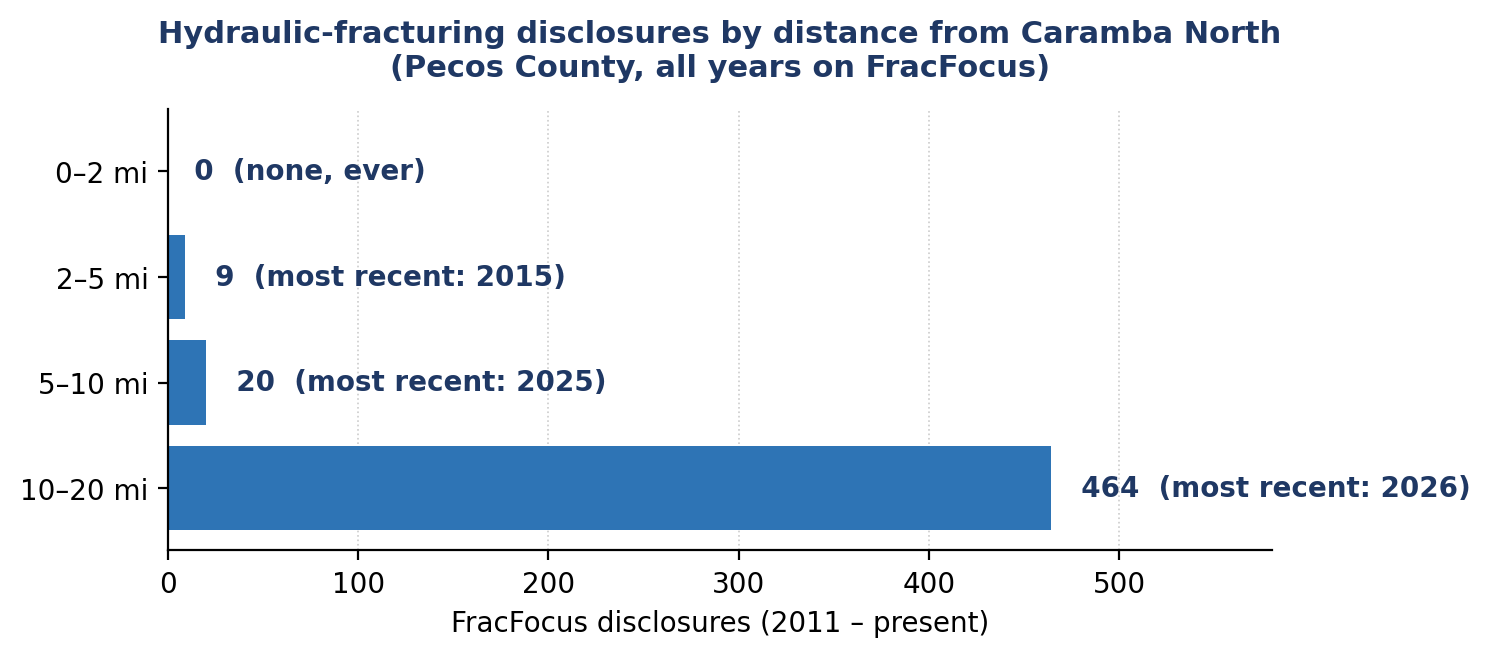
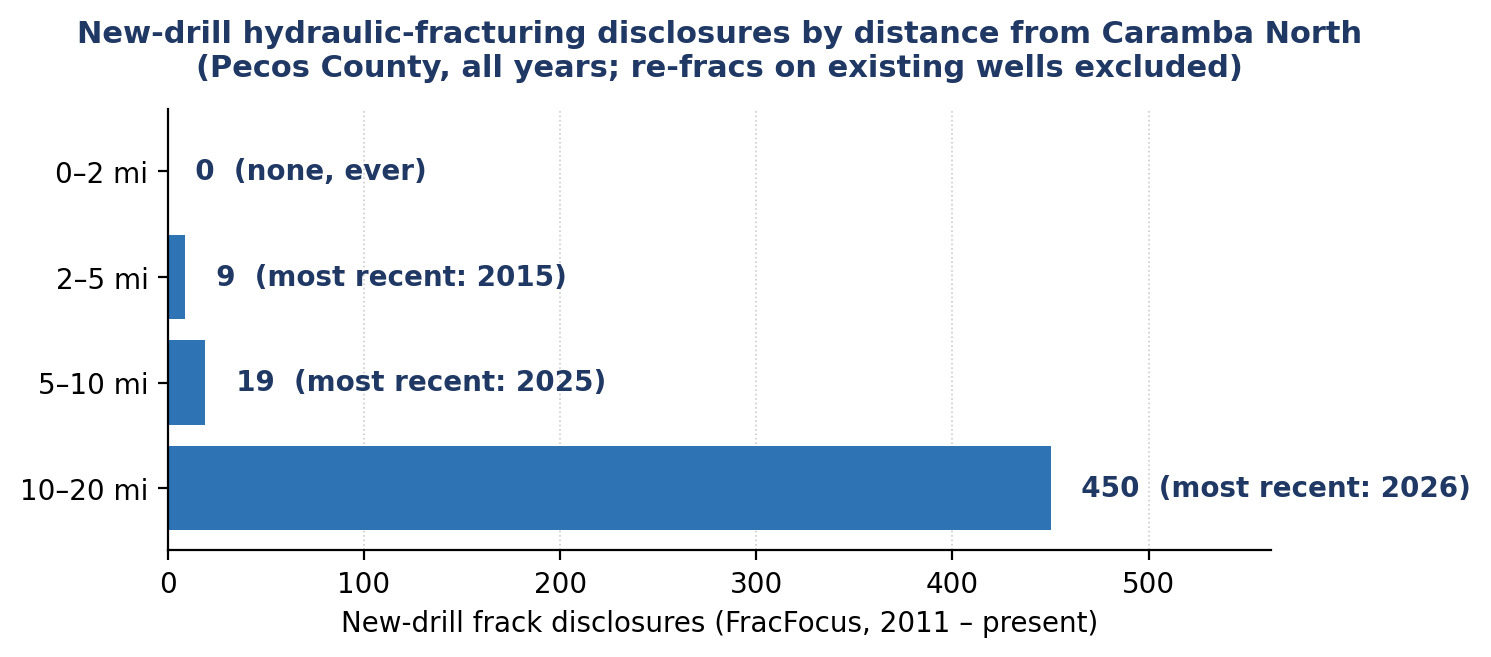
report v25: FracFocus restricted to NEW-DRILL fracks (re-fracs on existing wells excluded)
Per advisor: confirm the FracFocus figures only count fracks at the
original completion of newly drilled wells (not re-fracs on existing
wells, and not permits that were never drilled).

Cross-referenced every Pecos FracFocus disclosure (949 total) against
the RRC dbf900 wellbore record by API number. Each disclosure
classified as either:
  - new-drill frack: the FracFocus job date is within -1 to +2 years
    of the wellbore's original spud OR completion year (i.e., the
    frack was performed at original completion of a newly drilled
    wellbore); OR
  - re-frac: the FracFocus job date is >2 years after the wellbore's
    original spud or original completion (a stimulation event on an
    already-existing well).

(FracFocus does not contain permits-not-drilled by construction --
FracFocus only accepts disclosures filed POST-frac on a real well.)

County-wide classification: 949 -> 903 new-drill / 28 re-frac /
18 unmatched (no wellbore record found).

New ring counts (NEW-DRILL FRACKS ONLY, around Caramba):
  0 – 2  mi:    0   (unchanged -- still none, ever)
  2 – 5  mi:    9   (unchanged -- all 9 within 5 mi were new-drill;
                    most recent 2015 Flamingo; 8 are Apache 2012)
  5 – 10 mi:   19   (was 20; 1 re-frac excluded -- Caird Pecos J Fee
                    3H at 8.98 mi, originally spud 1985, re-fracked
                    2015 / 30y after spud)
  10 – 20 mi:  450  (was 464; 14 re-fracs/unmatched excluded)
[…]

diff --git a/outputs/reports/fracfocus_new_drill_only.py b/outputs/reports/fracfocus_new_drill_only.py
@@ -1,0 +1,169 @@
+#!/usr/bin/env python3
+"""Cross-reference each FracFocus disclosure within 20 mi of Caramba against
+the dbf900 wellbore record (by API) to filter to NEW-DRILL fracks only.
+
+Classification per disclosure:
+  - "new-drill frack" : the FracFocus job is the original completion of a
+    genuine-new-drill wellbore (i.e., the wellbore record has
+    completion_year >= spud_year, AND the FracFocus job date is within
+    ~24 months of the wellbore's spud_date).
+  - "re-frac" : everything else (re-stamp records; or FracFocus date well
+    after original completion -> re-frac on existing well).
+
+This is the conservative interpretation: it ONLY counts fracks that
+correspond to drilling a new wellbore. Re-fracs of existing wells are
+excluded, per advisor.
+"""
+import csv, json, math, statistics
+from collections import Counter, defaultdict
+from datetime import datetime, timedelta
+from pathlib import Path
+
+REPO = Path("/home/andreahimmel/lrp-tx-gis")
+FF   = REPO / "data" / "fracfocus" / "DisclosureList_1.csv"
+WB   = REPO / "data" / "wells_permian6.csv"
+
+# Caramba centroid
+gj = json.load(open(REPO / "combined_geoms.geojson", encoding="utf-8"))
+feats = gj.get("features", gj if isinstance(gj, list) else [])
+caramba = next((f for f in feats if "caramba" in json.dumps(f.get("properties") or {}).lower()), None)
+g = caramba["geometry"]
+car_rings = [g["coordinates"][0]] if g["type"] == "Polygon" else [p[0] for p in g["coordinates"]]
+pts = [pt for r in car_rings for pt in r]
+CX = sum(p[0] for p in pts) / len(pts); CY = sum(p[1] for p in pts) / len(pts)
+
+
+def miles(lon, lat):
+    dlat = (lat - CY) * 69.0
+    dlon = (lon - CX) * 69.0 * math.cos(math.radians((lat + CY) / 2))
+    return math.hypot(dlat, dlon)
+
+
+def f(s):
+    try: return float(s) if s not in (None, "") else None
+    except: return None
+
+
+def parse_int(s):
+    try: return int(float(s)) if s not in (None, "") else None
+    except: return None
+
+
+def parse_date(s):
+    if not s: return None
+    for fmt in ("%m/%d/%Y %I:%M:%S %p", "%m/%d/%Y", "%Y-%m-%d %H:%M:%S", "%Y-%m-%d"):
+        try: return datetime.strptime(s.strip(), fmt)
+        except: pass
+    return None
+
+
+def api8(s):
+    """Normalize an API number to 'state(2)+county(3)+unique(5)' = 10 digits."""
+    digits = "".join(c for c in (s or "") if c.isdigit())
+    return digits[:10] if len(digits) >= 10 else digits
+
+
+# --- Index wellbore record by 10-digit API ---
+wb_idx = {}  # api10 -> dict(spud_y, comp_y, td, plug)
+with open(WB, encoding="utf-8") as fh:
+    rd = csv.DictReader(fh)
+    for r in rd:
+        a = api8(r.get("api_no"))
+        if not a: continue
+        wb_idx[a] = dict(
+            spud_y=parse_int(r.get("spud_year")),
+            comp_y=parse_int(r.get("completion_year")),
+            spud_d=parse_date(r.get("spud_date") or ""),
+            comp_d=parse_date(r.get("completion_date") or ""),
+            td=f(r.get("total_depth")),
+            plug=(r.get("plug_flag") or "").strip().upper(),
+        )
+
+# --- Read FracFocus disclosures in Pecos ---
+disc = []
+with open(FF, encoding="utf-8", errors="replace") as fh:
+    rd = csv.DictReader(fh)
+    for r in rd:
+        st = (r.get("StateName") or "").strip().lower()
+        cnty = (r.get("CountyName") or "").strip().lower()
+        api = (r.get("APINumber") or "").strip()
+        a10 = api8(api)
+        if st != "texas" or cnty != "pecos":
+            if not (a10 and a10[2:5] == "371"):
+                continue
+        lat = f(r.get("Latitude")); lon = f(r.get("Longitude"))
+        if lat is None or lon is None: continue
+        dt = parse_date(r.get("JobStartDate") or "") or parse_date(r.get("JobEndDate") or "")
+        disc.append(dict(
+            api=a10, op=r.get("OperatorName"), well=r.get("WellName"),
+            lat=lat, lon=lon, mi=miles(lon, lat),
+            tvd=f(r.get("TVD")), dt=dt, year=(dt.year if dt else None),
+        ))
+
+# --- Classify each disclosure ---
+NEW = "new-drill"
+REFRAC = "re-frac"
+UNMATCHED = "unmatched"
+
+def classify(d):
+    """Match the FracFocus job date against EITHER the wellbore spud date OR
+    the wellbore completion date. The frack is a "new-drill frack" iff it falls
+    near the original spud/completion of the wellbore (within -1 to +2 years).
+    A re-stamped wellbore can still have its ORIGINAL frack appear at the
+    original completion_year (which is the earlier of spud/completion in
+    re-stamp records) -- those are new-drill fracks, not re-fracs."""
+    wb = wb_idx.get(d["api"])
+    if wb is None:
+        return UNMATCHED, "wellbore not in dbf900"
+    sy, cy = wb["spud_y"], wb["comp_y"]
+    if d["year"] is None:
+        return UNMATCHED, "no FracFocus date"
+    # Match against completion_year (original frack at original completion).
+    if cy is not None:
+        delta_c = d["year"] - cy
+        if -1 <= delta_c <= 2:
+            return NEW, f"frack at original completion (completion {cy}, frack {d['year']})"
+    # Match against spud_year (covers genuine-new-drill records where spud == completion).
+    if sy is not None:
+        delta_s = d["year"] - sy
+        if -1 <= delta_s <= 2:
+            return NEW, f"frack near spud (spud {sy}, frack {d['year']})"
+        if delta_s > 2:
+            return REFRAC, f"re-frac ({delta_s}y after spud {sy}, frack {d['year']})"
+    if cy is not None and d["year"] > cy + 2:
+        return REFRAC, f"re-frac ({d['year']-cy}y after original completion {cy})"
+    if cy is not None and d["year"] < cy - 1:
+        return REFRAC, f"frack before completion -- data error or duplicate ({d['year']} vs completion {cy})"
+    return UNMATCHED, "ambiguous"
+
+for d in disc:
+    d["cls"], d["why"] = classify(d)
+
+# --- Report ring counts by classification ---
+RINGS = [(0, 2), (2, 5), (5, 10), (10, 20)]
+print(f"=== FRACFOCUS DISCLOSURES IN PECOS, BY RING + CLASSIFICATION ===")
+print(f"  Total disclosures pulled:         {len(disc):,}")
+print(f"  Classification overall: ", Counter(d['cls'] for d in disc))
+print()
+for lo, hi in RINGS:
+    band = [d for d in disc if lo < d["mi"] <= hi if hi != 20 or d["mi"] <= 20]
+    # ring 0-2 is inclusive at 0:
+    if lo == 0:
+        band = [d for d in disc if d["mi"] <= hi]
+    else:
+        band = [d for d in disc if lo < d["mi"] <= hi]
+    nd = [d for d in band if d["cls"] == NEW]
+    rf = [d for d in band if d["cls"] == REFRAC]
+    un = [d for d in band if d["cls"] == UNMATCHED]
+    print(f"  {lo}–{hi} mi: total={len(band):3d}  new-drill={len(nd):3d}  re-frac={len(rf):3d}  unmatched={len(un):3d}")
+    if nd:
+        recent_nd = max((x['year'] for x in nd if x['year']), default=None)
+        print(f"            new-drill: most recent year = {recent_nd}; operators: " + ", ".join(f"{op} ({n})" for op, n in Counter(x['op'] for x in nd).most_common(5)))
+
+print()
+print(f"=== EVERY DISCLOSURE WITHIN 10 MI -- classified ===")
+near = sorted([d for d in disc if d["mi"] <= 10], key=lambda d: d["mi"])
+for d in near:
+    yr = d["year"] or "??"
+    tvd = f"{d['tvd']:,.0f} ft" if d["tvd"] else "TVD —"
+    print(f"  {d['mi']:5.2f} mi  {yr}  {tvd:>10}  [{d['cls']}]  {d['op'] or '?'}   well={d['well'] or '?'}   api={d['api']}   why={d['why']}")

diff --git a/outputs/reports/make_docx.py b/outputs/reports/make_docx.py
@@ -143,8 +143,8 @@ para(doc, [
     ("The wells within two miles are all decades-old legacy completions (drilled 1950s–2002) — mostly plugged shallow verticals plus a handful of long-completed deep wells — ", False),
     ("none representing active drilling, hydraulic fracturing, or a vibration source.", True),
 ], fill='EAF2FF', space_after=4)
-para(doc, [("Independently confirmed by the public hydraulic-fracturing disclosure record (FracFocus, 2011–present): ", False),
-           ("no frack job has ever been filed within two miles of the tract, and the most recent within five miles was 2015.", True),
+para(doc, [("Independently confirmed against the public hydraulic-fracturing disclosure record (FracFocus, 2011–present, cross-referenced to the wellbore record to exclude re-fracs on existing wells): ", False),
+           ("no new-drill frack has ever been filed within two miles of the tract, and the most recent within five miles was 2015.", True),
            (" See Finding 10.", False)], fill='EAF2FF', space_after=8)
 
 para(doc, [("Two further points reinforce this:", True)], space_after=2)
@@ -290,23 +290,25 @@ para(doc, [("A pumping wellhead or low-rate gas well on a decades-old completion
      fill='DEEAF6', space_after=8)
 para(doc, [("County-wide, of the ≈35,100 non-plugged wellbores in the six sale-area counties, ≈12,540 are plugged, ≈12,490 are marginal or end-of-life by this measure, and ≈10,060 are still producing above the threshold. The API-to-lease crosswalk matches ≈99.6% of non-plugged wells; the ≈90 that do not match are conservatively left classified “Active.” Production filings carry a normal reporting lag, which the six-month trailing window mitigates.", False)], italic=True)
 
-doc.add_heading("10. The public fracking record (FracFocus) confirms: no fracking jobs within two miles of the tract, ever", level=2)
+doc.add_heading("10. The public fracking record (FracFocus) confirms: no new-drill fracking jobs within two miles of the tract, ever", level=2)
 para(doc, [("The Texas ", False), ("FracFocus disclosure database", True),
-           (" (fracfocus.org) is the public record of every hydraulic-fracturing job that operators have filed in Texas since 2011. Cross-referencing every Pecos County disclosure (949 in total) against the Caramba North tract:", False)], space_after=4)
-table(doc, ["Distance band from tract", "Frack disclosures (2011 – present)", "Most recent year"], [
+           (" (fracfocus.org) is the public record of every hydraulic-fracturing job that operators have filed in Texas since 2011. Every Pecos County disclosure (949 in total) was cross-referenced against the RRC wellbore record by API number to ", False),
+           ("exclude re-fracs on existing wells", True),
+           (" — the figures below are confirmed new-drill fracks only (a frack performed at the original completion of a newly drilled wellbore):", False)], space_after=4)
+table(doc, ["Distance band from tract", "New-drill fracks (2011 – present)", "Most recent year"], [
     ["0 – 2 mi", "0", "— none, ever"],
     ["2 – 5 mi", "9", "2015 (most recent)"],
-    ["5 – 10 mi", "20", "2025"],
-    ["10 – 20 mi", "464", "2026"],
+    ["5 – 10 mi", "19", "2025"],
+    ["10 – 20 mi", "450", "2026"],
 ], row_styles={0: {'fill': 'CFECCF', 'bold': True}, 1: {'fill': 'EAF5EA'}, 3: {'fill': 'EAF5EA'}})
-para(doc, [("No hydraulic-fracturing job has ever been performed within two miles of the Caramba North tract.", True),
-           (" Within five miles there have been 9 fracks, all between 2012 and 2015 — the most recent over a decade ago. Eight of the nine were Apache Corporation's 2012 multi-well program (FSSU wells, 2.75 – 4.85 mi out); the ninth was Flamingo Operating in 2015. Within ten miles, 29 fracks over the entire 2012 – 2025 period, the closest to the site being the 2025 Mongoose Energy Viper wells at 6.94 mi out.", False)],
+para(doc, [("No new-drill hydraulic-fracturing job has ever been performed within two miles of the Caramba North tract.", True),
+           (" Within five miles there have been 9 new-drill fracks, all between 2012 and 2015 — the most recent over a decade ago. Eight were Apache Corporation's 2012 multi-well program (FSSU wells, 2.75 – 4.85 mi out); the ninth was Flamingo Operating in 2015. Within ten miles, 28 new-drill fracks over the entire 2012 – 2025 period, the closest to the site being the 2025 Mongoose Energy Viper wells at 6.94 mi out.", False)],
      fill='DEEAF6')
 add_figure(doc, "ch_fracfocus_rings.png", width_in=6.0,
-           caption="FracFocus disclosures around Caramba North: 0 within 2 mi (ever), 9 within 2–5 mi (all 2012–2015), 20 within 5–10 mi, 464 within 10–20 mi. The dense Permian fracking activity is concentrated outside the 10-mile buffer.")
-para(doc, [("The broader Permian fracking program does exist — 493 fracks within twenty miles since 2011, dominated by the deep-horizontal unconventional players (Diamondback, XTO/ExxonMobil, Gordy). But that activity is concentrated well outside the 10-mile buffer, almost entirely at unconventional depths (median TVD ≈ 9,800 ft within 20 mi), and even there annual volume has been declining (39 fracks in Pecos in 2023, 6 in 2024, 21 in 2025, 11 year-to-date 2026 vs. a 2018 – 2019 peak of 113 – 167/year).", False)])
+           caption="New-drill fracks (FracFocus cross-referenced against the wellbore record): 0 within 2 mi (ever), 9 within 2–5 mi (all 2012–2015), 19 within 5–10 mi, 450 within 10–20 mi. Re-fracs on existing wells are excluded.")
+para(doc, [("The broader Permian new-drill fracking program does exist — 478 new-drill fracks within twenty miles since 2011, dominated by the deep-horizontal unconventional players (Diamondback 194, XTO/ExxonMobil 53, Gordy 45). But that activity is concentrated well outside the 10-mile buffer, almost entirely at unconventional depths, and annual volume has been declining (39 disclosed fracks in Pecos in 2023, 6 in 2024, 21 in 2025, 11 year-to-date 2026 vs. a 2018 – 2019 peak of 113 – 167/year).", False)])
 para(doc, [("This is direct, evidence-based confirmation of what the wellbore-and-production record already implied: ", False),
-           ("no active hydraulic-fracturing operation is occurring at or near the Caramba North tract — neither on horizontal wellbores nor on vertical wellbores, and the closest disclosed frack within five miles is over a decade old.", True)], fill='DEEAF6')
+           ("no active new-drill hydraulic-fracturing operation is occurring at or near the Caramba North tract, and the closest disclosed new-drill frack within five miles is over a decade old.", True)], fill='DEEAF6')
 
 doc.save(OUT)
 print("WROTE", OUT)

diff --git a/outputs/reports/v22_charts.py b/outputs/reports/v22_charts.py
@@ -88,9 +88,11 @@ plt.savefig(OUT / "ch_status_mix.png", dpi=200, bbox_inches="tight", facecolor="
 plt.close()
 print(f"wrote {OUT/'ch_status_mix.png'}")
 
-# ---------- Chart 4: FracFocus disclosures by ring band around Caramba ----------
+# ---------- Chart 4: FracFocus NEW-DRILL fracks by ring band around Caramba ----------
+# (Each FracFocus disclosure cross-referenced against the wellbore record;
+#  re-fracs on existing wells excluded. These are confirmed new-drill fracks.)
 labels4 = ["0–2 mi", "2–5 mi", "5–10 mi", "10–20 mi"]
-vals4 = [0, 9, 20, 464]         # ring-band counts (not cumulative)
+vals4 = [0, 9, 19, 450]         # new-drill only
 recents = ["—", "2015", "2025", "2026"]
 colors4 = ["#A6A6A6"] + [NEW] * 3
 
@@ -100,11 +102,11 @@ for b, v, rec in zip(bars, vals4, recents):
     lbl = f"  {v}  (most recent: {rec})" if v > 0 else "  0  (none, ever)"
     ax.text(v + 6 if v > 0 else 4, b.get_y() + b.get_height() / 2, lbl,
             va="center", ha="left", fontsize=10, color="#1F3864", fontweight="bold")
-ax.set_xlabel("FracFocus disclosures (2011 – present)", fontsize=10)
+ax.set_xlabel("New-drill frack disclosures (FracFocus, 2011 – present)", fontsize=10)
 ax.set_xlim(0, max(vals4) * 1.25)
 ax.invert_yaxis()
-ax.set_title("Hydraulic-fracturing disclosures by distance from Caramba North\n"
-             "(Pecos County, all years on FracFocus)",
+ax.set_title("New-drill hydraulic-fracturing disclosures by distance from Caramba North\n"
+             "(Pecos County, all years; re-fracs on existing wells excluded)",
              fontsize=11, color="#1F3864", fontweight="bold", pad=12)
 ax.spines["top"].set_visible(False); ax.spines["right"].set_visible(False)
 ax.set_axisbelow(True)

diff --git a/outputs/reports/pecos-shallow-drilling-caramba-vibration.md b/outputs/reports/pecos-shallow-drilling-caramba-vibration.md
@@ -26,7 +26,7 @@ Proximity is reported at explicit distances from the tract centroid — principa
    7. [County-wide context — new drilling is deep, and remote from the site](#7-county-wide-context--new-drilling-is-deep-and-remote-from-the-site)
    8. [Pecos vs. peer counties — the least new drilling of the group](#8-pecos-vs-peer-counties--the-least-new-drilling-of-the-group)
    9. [Production near the site is decades-old completions — no active drilling or hydraulic-fracturing operations](#9-production-near-the-site-is-decades-old-completions--no-active-drilling-or-hydraulic-fracturing-operations)
-   10. [The public fracking record (FracFocus) confirms: no fracking jobs within two miles of the tract, ever](#10-the-public-fracking-record-fracfocus-confirms-no-fracking-jobs-within-two-miles-of-the-tract-ever)
+   10. [The public fracking record (FracFocus) confirms: no new-drill fracking jobs within two miles of the tract, ever](#10-the-public-fracking-record-fracfocus-confirms-no-new-drill-fracking-jobs-within-two-miles-of-the-tract-ever)
 
 ## Summary of findings
 
@@ -34,7 +34,7 @@ Proximity is reported at explicit distances from the tract centroid — principa
 
 The wells within two miles are all decades-old legacy completions (drilled 1950s–2002) — mostly plugged shallow verticals plus a handful of long-completed deep wells — **none representing active drilling, hydraulic fracturing, or a vibration source.**
 
-Independently confirmed by the public hydraulic-fracturing disclosure record (FracFocus, 2011–present): **no frack job has ever been filed within two miles of the tract, and the most recent within five miles was 2015.** See Finding 10.
+Independently confirmed against the public hydraulic-fracturing disclosure record (FracFocus, 2011–present, cross-referenced to the wellbore record to exclude re-fracs on existing wells): **no new-drill frack has ever been filed within two miles of the tract, and the most recent within five miles was 2015.** See Finding 10.
 
 **Two further points reinforce this:**
 
@@ -178,21 +178,21 @@ A pumping wellhead or low-rate gas well on a decades-old completion is not a dri
 
 *County-wide, of the ≈35,100 non-plugged wellbores in the six sale-area counties, ≈12,540 are plugged, ≈12,490 are marginal or end-of-life by this measure, and ≈10,060 are still producing above the threshold. The API-to-lease crosswalk matches ≈99.6% of non-plugged wells; the ≈90 that do not match are conservatively left classified "Active." Production filings carry a normal reporting lag, which the six-month trailing window mitigates.*
 
-### 10. The public fracking record (FracFocus) confirms: no fracking jobs within two miles of the tract, ever
+### 10. The public fracking record (FracFocus) confirms: no new-drill fracking jobs within two miles of the tract, ever
 
-The Texas **FracFocus disclosure database** ([fracfocus.org](https://fracfocus.org)) is the public record of every hydraulic-fracturing job that operators have filed in Texas since 2011. Cross-referencing every Pecos County disclosure (949 in total) against the Caramba North tract:
+The Texas **FracFocus disclosure database** ([fracfocus.org](https://fracfocus.org)) is the public record of every hydraulic-fracturing job that operators have filed in Texas since 2011. Every Pecos County disclosure (949 in total) was cross-referenced against the RRC wellbore record by API number to **exclude re-fracs on existing wells** — the figures below are confirmed **new-drill fracks only** (a frack performed at the original completion of a newly drilled wellbore):
 
-| Distance band from tract | Frack disclosures (2011 – present) | Most recent year |
+| Distance band from tract | New-drill fracks (2011 – present) | Most recent year |
 |---|---|---|
 | **0 – 2 mi** | **0** | — none, ever |
 | 2 – 5 mi | 9 | 2015 (most recent) |
-| 5 – 10 mi | 20 | 2025 |
-| 10 – 20 mi | 464 | 2026 |
+| 5 – 10 mi | 19 | 2025 |
+| 10 – 20 mi | 450 | 2026 |
 
-**No hydraulic-fracturing job has ever been performed within two miles of the Caramba North tract.** Within five miles there have been 9 fracks, all between 2012 and 2015 — the most recent over a decade ago. Eight of the nine were Apache Corporation's 2012 multi-well program (FSSU wells, 2.75–4.85 mi out); the ninth was Flamingo Operating in 2015. Within ten miles, 29 fracks over the entire 2012–2025 period, the closest to the site being the 2025 Mongoose Energy Viper wells at 6.94 mi out.
+**No new-drill hydraulic-fracturing job has ever been performed within two miles of the Caramba North tract.** Within five miles there have been 9 new-drill fracks, all between 2012 and 2015 — the most recent over a decade ago. Eight were Apache Corporation's 2012 multi-well program (FSSU wells, 2.75–4.85 mi out); the ninth was Flamingo Operating in 2015. Within ten miles, 28 new-drill fracks over the entire 2012–2025 period, the closest to the site being the 2025 Mongoose Energy Viper wells at 6.94 mi out.
 
-![FracFocus disclosures around Caramba North: 0 within 2 mi (ever), 9 within 2–5 mi (all 2012–2015), 20 within 5–10 mi, 464 within 10–20 mi.](charts/ch_fracfocus_rings.png)
+![New-drill fracks around Caramba North: 0 within 2 mi (ever), 9 within 2–5 mi (all 2012–2015), 19 within 5–10 mi, 450 within 10–20 mi. Re-fracs on existing wells are excluded.](charts/ch_fracfocus_rings.png)
 
-The broader Permian fracking program does exist — 493 fracks within twenty miles since 2011, dominated by the deep-horizontal unconventional players (Diamondback, XTO/ExxonMobil, Gordy). But that activity is concentrated well outside the 10-mile buffer, almost entirely at unconventional depths (median TVD ≈ 9,800 ft within 20 mi), and even there annual volume has been declining (39 fracks in Pecos in 2023, 6 in 2024, 21 in 2025, 11 year-to-date 2026 vs. a 2018–2019 peak of 113–167/year).
+The broader Permian new-drill fracking program does exist — 478 new-drill fracks within twenty miles since 2011, dominated by the deep-horizontal unconventional players (Diamondback 194, XTO/ExxonMobil 53, Gordy 45). But that activity is concentrated well outside the 10-mile buffer, almost entirely at unconventional depths, and annual volume has been declining (39 disclosed fracks in Pecos in 2023, 6 in 2024, 21 in 2025, 11 year-to-date 2026 vs. a 2018–2019 peak of 113–167/year).
 
-This is direct, evidence-based confirmation of what the wellbore-and-production record already implied: **no active hydraulic-fracturing operation is occurring at or near the Caramba North tract — neither on horizontal wellbores nor on vertical wellbores, and the closest disclosed frack within five miles is over a decade old.**
+This is direct, evidence-based confirmation of what the wellbore-and-production record already implied: **no active new-drill hydraulic-fracturing operation is occurring at or near the Caramba North tract, and the closest disclosed new-drill frack within five miles is over a decade old.**

diff --git a/outputs/reports/buyer-email.md b/outputs/reports/buyer-email.md
@@ -13,7 +13,7 @@ This transmits our assessment of the oil-and-gas drilling record at and within t
 
 **Proximity.** No well of any kind has been spudded within two miles of the tract in over a decade, and no shallow (<3,000 ft) well within two miles since 2002. Counting only genuine new wells (recompletion re-stamps of existing bores excluded), no new-drill well lies within five miles of the tract, and only three within ten miles across all of 2020–2025 — all deep (≈9,200–9,500 ft, spudded 2020 and 2025), the nearest approximately 6.9 miles out. The wells within two miles are all decades-old legacy completions (drilled 1950s–2002) — mostly plugged shallow verticals plus a handful of long-completed deep wells — none representing active drilling or a hydraulic-fracturing operation. Separately, cross-referencing every well against RRC production records for the most recent six reported months — joined by API number through the RRC's authoritative API-to-lease crosswalk, covering ≈99.6% of non-plugged wells — and applying a strict marginal-well threshold (trailing-average output at or below **125 Mcf/day of gas AND 25 bbl/day of oil**): about **83% of the non-plugged genuine-new-drill wells within ten miles (241 of 291) are marginal or end-of-life**. The 50 still producing above that threshold are all decades-old completions — comprising ~15 legacy deep-gas wells (mostly 1965–1978 spud, ≈17,000–22,800 ft), a cluster of ~31 low-rate vertical conventional oil wells at ≈3,150–3,440 ft on a unitized stripper-grade pumping lease (spud 1986–2012), 3 truly shallow (<3,000 ft) oil wells at 2,824–2,945 ft (spud 2004–2011), and the single 2020 deep-horizontal new-drill at 9.37 mi noted above. A pumping wellhead or low-rate gas well on a decades-old completion is not a drilling rig or a hydraulic-fracturing spread. There is accordingly no active drilling or hydraulic-fracturing operation at or near the site.
 
-This is independently confirmed against the **Texas FracFocus disclosure database** (the public record of every hydraulic-fracturing job filed in Texas since 2011): **no frack job has ever been filed within two miles of the Caramba North tract**, and only 9 fracks have ever been filed within five miles — all between 2012 and 2015 (most recent over a decade ago). Across the full ten-mile buffer, 29 fracks since 2012, the nearest recent one being a 2025 Mongoose Energy well at 6.94 mi out. The dense Permian fracking activity (493 jobs within 20 mi, dominated by Diamondback / XTO / Gordy) is concentrated well outside the 10-mile buffer.
+This is independently confirmed against the **Texas FracFocus disclosure database** (the public record of every hydraulic-fracturing job filed in Texas since 2011, cross-referenced against the RRC wellbore record by API number to **exclude re-fracs on existing wells**): **no new-drill frack has ever been filed within two miles of the Caramba North tract**, and only 9 new-drill fracks have ever been filed within five miles — all between 2012 and 2015 (most recent over a decade ago). Across the full ten-mile buffer, 28 new-drill fracks since 2012, the nearest recent one being a 2025 Mongoose Energy well at 6.94 mi out. The dense Permian new-drill fracking activity (478 jobs within 20 mi, dominated by Diamondback / XTO / Gordy) is concentrated well outside the 10-mile buffer.
 
 **Character of activity.** Tracing every Pecos wellbore that has had any recorded activity since 2020 (RRC's master wellbore database, dbf900, with every event tagged to a unique API well number): **only ≈10% (117 of 1,118) are genuine new drilling** — the other ≈90% are recompletion or workover events on existing wellbores, overwhelmingly by Kinder Morgan Production reworking existing CO₂-flood (enhanced-recovery) fields, on a workover rig on an existing bore. Of the ≈116 genuine new wells actually drilled in Pecos since 2020, **≈95% are deep (≥3,000 ft) horizontal** — the modern Permian unconventional program, operator-concentrated (Diamondback, XTO, Continental, Gordy), oil-directed, and remote from the site. On a genuine-new-drill basis Pecos is by far the least-drilled of the seven comparable Permian counties (≈116 new wells since 2020 vs an average of ≈1,148 across the other six — Reeves, Midland, Martin, Reagan, Howard, Loving). New drilling and the hydraulic-fracturing completions that accompany it — whether of horizontal or vertical wellbores — are the activity materially associated with ground vibration, and that activity is absent from the site's vicinity.
 